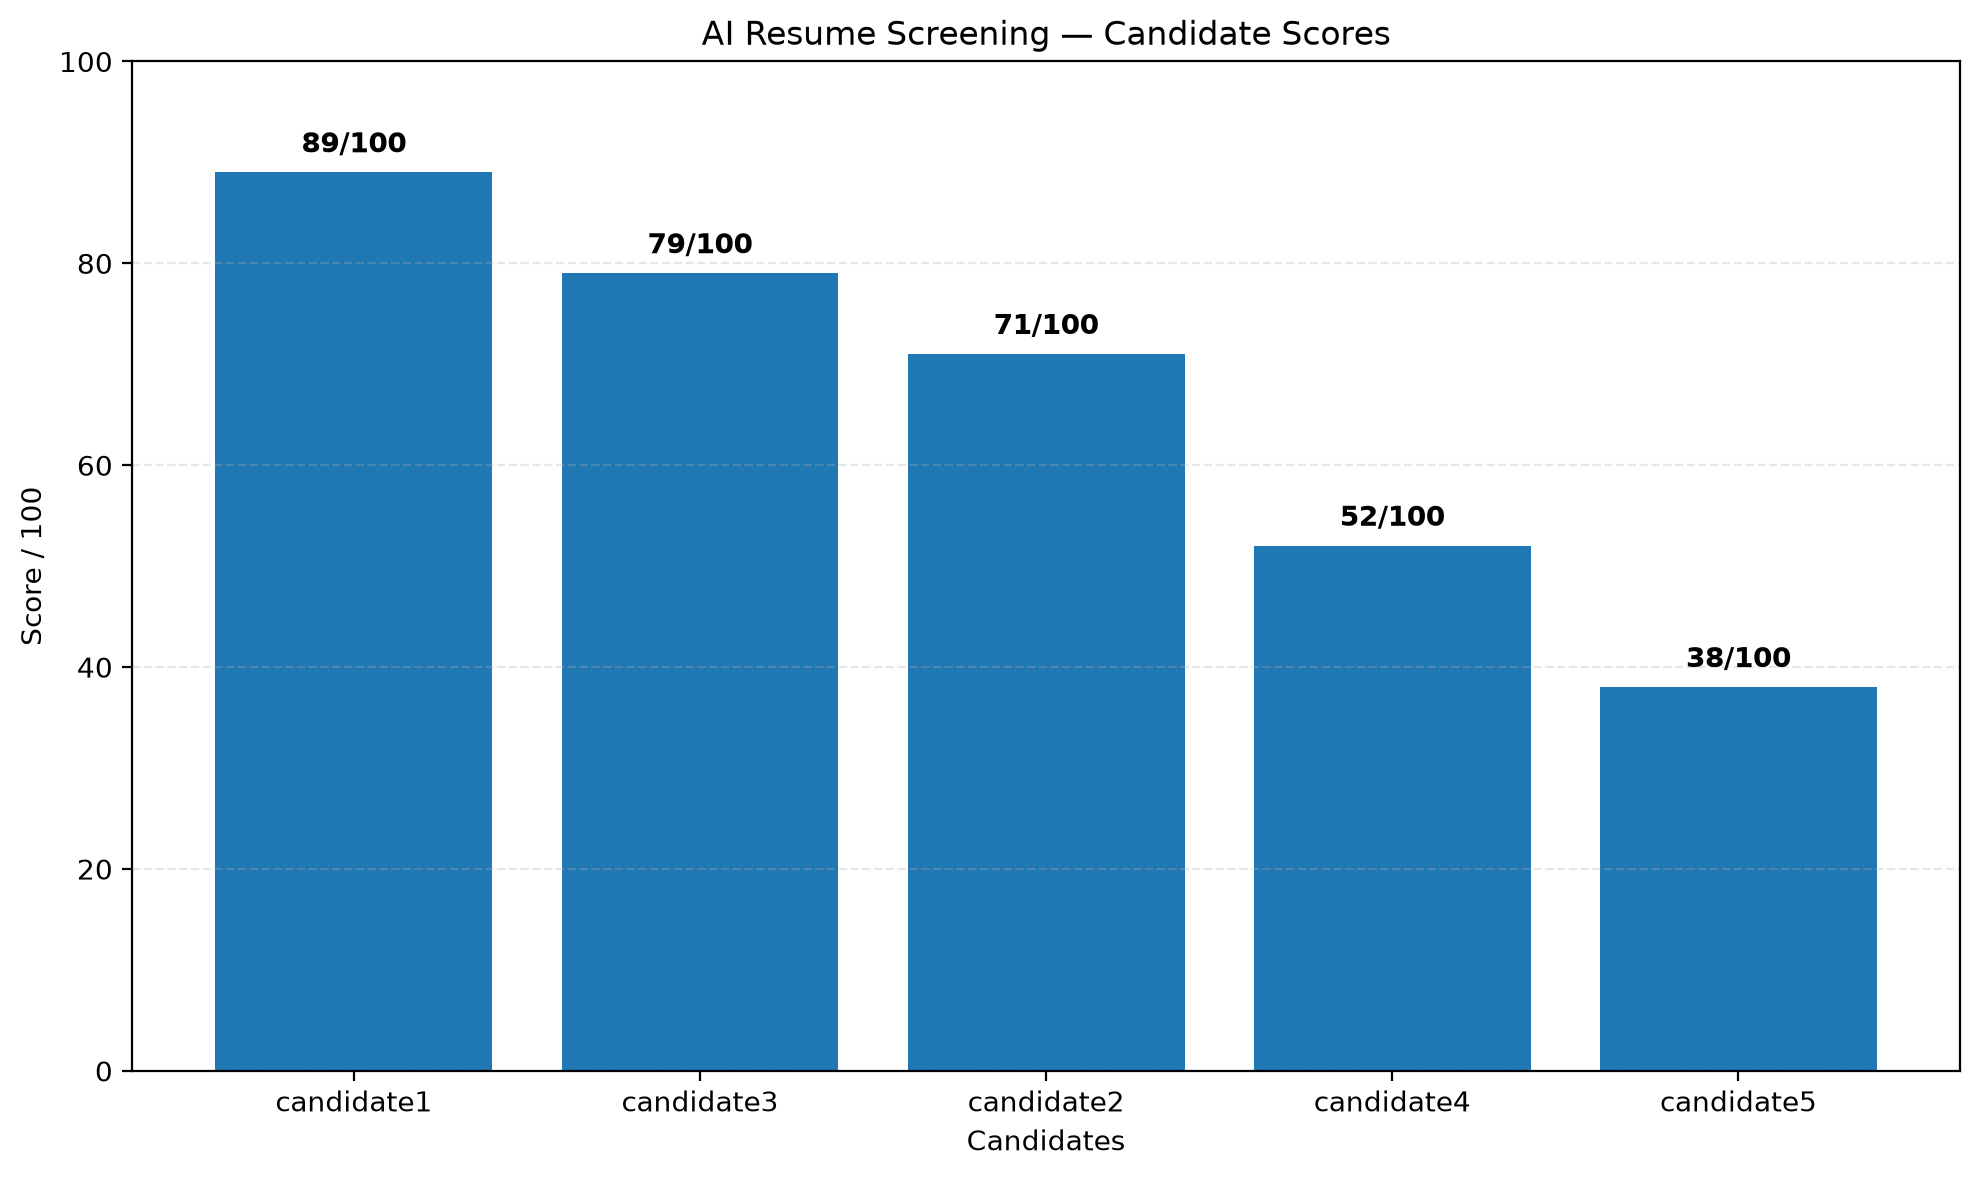
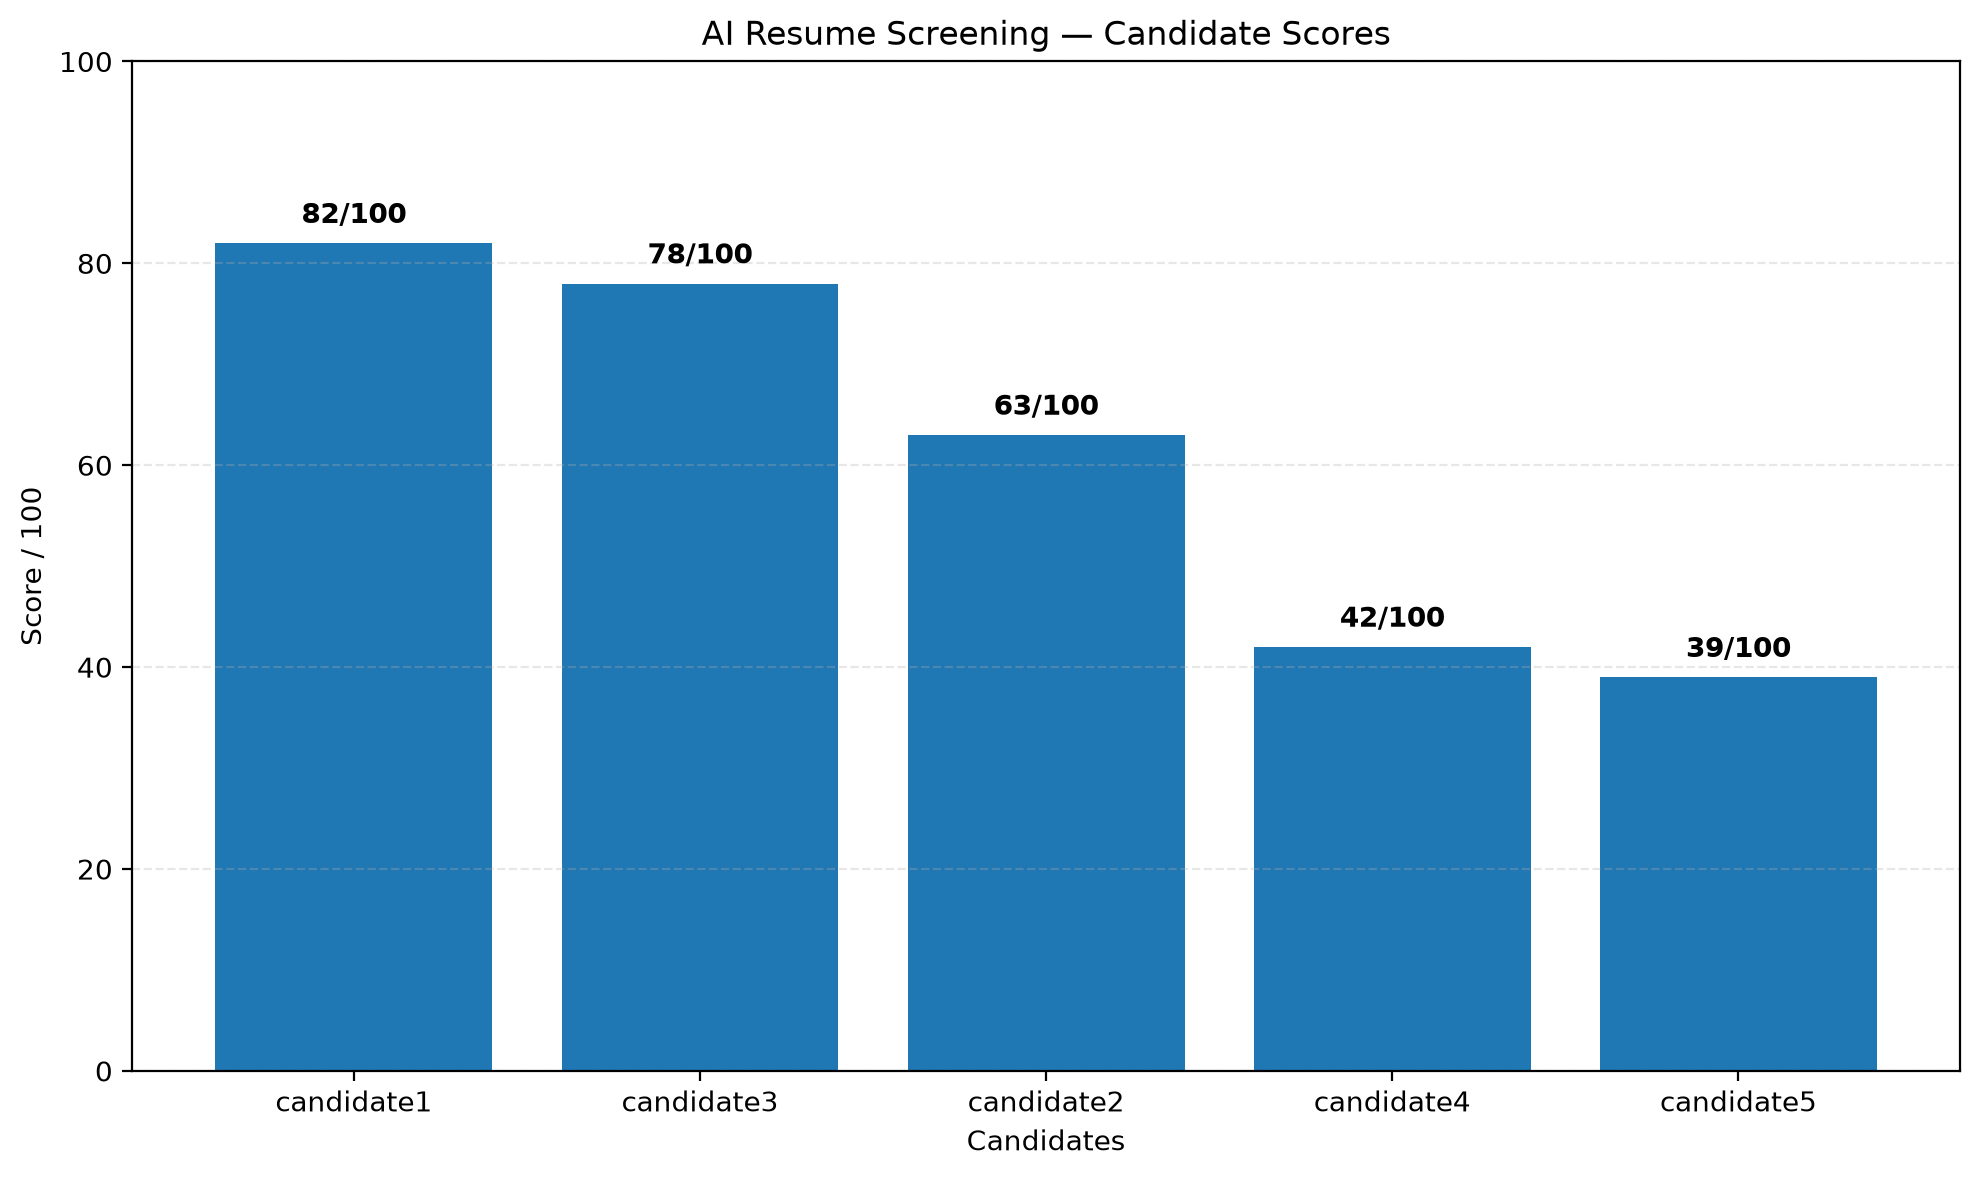
Prepare HireAI for Vercel

diff --git a/api/index.py b/api/index.py
@@ -1,0 +1,1 @@
+from app import app

diff --git a/outputs/report.md b/outputs/report.md
@@ -48,162 +48,158 @@ We are looking for a Python Backend Developer to join our engineering team.
 
 | Rank | Candidate | Score | Recommendation | Remarks |
 |---:|---|---:|---|---|
-| 1 | candidate1 | 89/100 | Recommended | Candidate1 meets all required technical criteria, has the right amount of experience, and holds a relevant cloud certification. Minor gaps in Redis and CI/CD can be trained on‑the‑job. |
-| 2 | candidate3 | 79/100 | Consider | Candidate3 brings valuable cloud and DevOps expertise and solid Python fundamentals, but would need upskilling on Python web frameworks to fully match the role. |
-| 3 | candidate2 | 71/100 | Consider | Candidate2 is a competent junior backend developer but lacks several preferred skills and certifications that would make them a stronger fit. |
-| 4 | candidate4 | 52/100 | Not Recommended | Candidate4 shows potential but does not meet the experience threshold nor the breadth of technical skills required for the role. |
-| 5 | candidate5 | 38/100 | Not Recommended | Candidate5 is a data‑analysis specialist; the profile does not align with the Python backend developer role. |
+| 1 | candidate1 | 82/100 | Recommended | Meets all core requirements and several preferred skills. Minor gaps in OOP evidence and a few preferred technologies, but overall a strong fit for the role. |
+| 2 | candidate3 | 78/100 | Consider | Strong overall technical foundation and cloud expertise, but lacks Python‑centric API framework experience. Still a viable candidate, especially if cloud skills are valued. |
+| 3 | candidate2 | 63/100 | Weak Match | Meets minimum experience and core technical requirements but lacks many preferred skills and certifications, making the candidate a moderate fit. |
+| 4 | candidate4 | 42/100 | Not Recommended | Candidate is early in their career and does not meet the core technical or experience thresholds for this position. |
+| 5 | candidate5 | 39/100 | Not Recommended | While technically competent in Python and SQL, the candidate’s experience is centered on data analytics, making them a poor fit for a backend developer role. |
 
 # Top 5 Candidates
 
-## #1 candidate1 — 89/100
+## #1 candidate1 — 82/100
 
 ### Strengths
 
-- Strong Python and FastAPI/Flask experience
-- Hands‑on REST API development
-- Experience with PostgreSQL and Docker
-- AWS Cloud Practitioner certification shows cloud awareness
-- Clear problem‑solving and debugging abilities
+- Solid Python backend experience (2 years)
+- Proficient with FastAPI and Flask
+- Hands‑on with Docker and PostgreSQL
+- AWS Cloud Practitioner certification
+- Demonstrated problem‑solving and teamwork
 
 ### Missing Skills
 
+- Object-oriented programming
+- AWS or cloud platforms
 - Redis
-- AWS
 - CI/CD
-- Object-oriented programming (explicit mention)
 
 ### Weaknesses
 
-- No direct experience with Redis
-- AWS experience limited to certification, not practical projects
-- No explicit CI/CD pipeline experience mentioned
+- No explicit mention of object‑oriented programming experience
+- Lacks Redis and CI/CD exposure
 
 ### Remarks
 
-Candidate1 meets all required technical criteria, has the right amount of experience, and holds a relevant cloud certification. Minor gaps in Redis and CI/CD can be trained on‑the‑job.
+Meets all core requirements and several preferred skills. Minor gaps in OOP evidence and a few preferred technologies, but overall a strong fit for the role.
 
-## #2 candidate3 — 79/100
+## #2 candidate3 — 78/100
 
 ### Strengths
 
-- AWS Certified Developer and hands‑on AWS deployment
-- Docker and CI/CD pipeline experience
-- Leadership and strong communication
-- Broad backend and cloud knowledge
+- AWS Certified Developer and practical cloud deployment experience
+- Docker and CI/CD pipeline expertise
+- Solid OOP background from Java experience
+- Good leadership and communication skills
 
 ### Missing Skills
 
 - FastAPI or Flask
-- REST API development in Python
+- REST API development (Python)
+- Object-oriented programming
 - PostgreSQL
-- GitHub (explicit mention)
 - Redis
-- Object-oriented programming (explicit mention)
 
 ### Weaknesses
 
-- Lacks Python‑specific web framework experience (FastAPI/Flask)
-- Limited exposure to PostgreSQL and Redis
-- Primary experience is in Java/Spring rather than Python backend
+- Limited Python‑specific web framework experience (no FastAPI/Flask)
+- No direct experience with PostgreSQL or Redis
 
 ### Remarks
 
-Candidate3 brings valuable cloud and DevOps expertise and solid Python fundamentals, but would need upskilling on Python web frameworks to fully match the role.
+Strong overall technical foundation and cloud expertise, but lacks Python‑centric API framework experience. Still a viable candidate, especially if cloud skills are valued.
 
-## #3 candidate2 — 71/100
+## #3 candidate2 — 63/100
 
 ### Strengths
 
-- Solid Python/Flask API development
+- Relevant Python and Flask experience (1.5 years)
 - Good teamwork and communication
-- Relevant 1.5‑year backend experience
+- Solid understanding of relational databases (MySQL)
 
 ### Missing Skills
 
-- FastAPI
-- PostgreSQL
+- Object-oriented programming
 - Docker
-- AWS
+- PostgreSQL
+- AWS or cloud platforms
 - Redis
 - CI/CD
-- Object-oriented programming (explicit mention)
 
 ### Weaknesses
 
-- Missing many preferred technologies (Docker, AWS, CI/CD)
-- No certifications to demonstrate deeper expertise
+- No certifications
+- Missing several preferred technologies and OOP evidence
 
 ### Remarks
 
-Candidate2 is a competent junior backend developer but lacks several preferred skills and certifications that would make them a stronger fit.
+Meets minimum experience and core technical requirements but lacks many preferred skills and certifications, making the candidate a moderate fit.
 
-## #4 candidate4 — 52/100
-
-### Strengths
-
-- Basic Python web development experience
-- Internship exposure to full‑stack project
-
-### Missing Skills
-
-- FastAPI
-- REST API development (advanced)
-- PostgreSQL
-- Docker
-- AWS
-- Redis
-- CI/CD
-- Object-oriented programming (explicit mention)
-- Problem solving (explicit mention)
-
-### Weaknesses
-
-- Only 6 months of internship – below required experience
-- Limited skill set; many required/preferred technologies missing
-- No certifications related to backend development
-
-### Remarks
-
-Candidate4 shows potential but does not meet the experience threshold nor the breadth of technical skills required for the role.
-
-## #5 candidate5 — 38/100
+## #4 candidate4 — 42/100
 
 ### Strengths
 
-- Strong data‑analysis and Python scripting abilities
-- Good communication and presentation skills
+- Basic Python programming knowledge
+- Internship exposure to software development
 
 ### Missing Skills
 
 - FastAPI or Flask
 - REST API development
-- Git and GitHub
+- SQL
 - Object-oriented programming
-- Problem solving (explicit mention)
+- Problem-solving (as a technical skill)
 - Docker
 - PostgreSQL
-- AWS
+- AWS or cloud platforms
 - Redis
 - CI/CD
 
 ### Weaknesses
 
-- No backend development experience or relevant frameworks
-- Educational background not directly related to computer science
-- Certifications focused on BI, not backend engineering
+- Insufficient professional experience (6 months)
+- Lacks most required and preferred technical skills
+- No certifications relevant to the role
 
 ### Remarks
 
-Candidate5 is a data‑analysis specialist; the profile does not align with the Python backend developer role.
+Candidate is early in their career and does not meet the core technical or experience thresholds for this position.
+
+## #5 candidate5 — 39/100
+
+### Strengths
+
+- Strong data analysis and Python scripting abilities
+- Good communication and analytical thinking
+
+### Missing Skills
+
+- FastAPI or Flask
+- REST API development
+- Object-oriented programming
+- Problem-solving (as a technical skill)
+- Git
+- Docker
+- PostgreSQL
+- AWS or cloud platforms
+- Redis
+- CI/CD
+
+### Weaknesses
+
+- Background focused on data analytics rather than backend development
+- Missing core backend development skills and relevant certifications
+
+### Remarks
+
+While technically competent in Python and SQL, the candidate’s experience is centered on data analytics, making them a poor fit for a backend developer role.
 
 # Hiring Recommendation
 
 **Recommended Candidate:** candidate1
 
-**Final Score:** 89/100
+**Final Score:** 82/100
 
-Recommend moving forward with candidate1 as the primary choice due to strong alignment with required and preferred skills, appropriate experience, and relevant certification. Candidate3 is a close second, offering valuable cloud and DevOps expertise that can complement the team after minor upskilling in Python web frameworks. Candidate2 can be considered for a junior role or future growth, while candidates4 and 5 do not meet the core requirements for this position.
+Candidate 1 is the strongest overall match, satisfying all core requirements and several preferred skills. Candidate 3 is a close second, offering excellent cloud and DevOps expertise but lacking Python‑specific web framework experience. These two should be prioritized for interview consideration.
 
 ---
 
